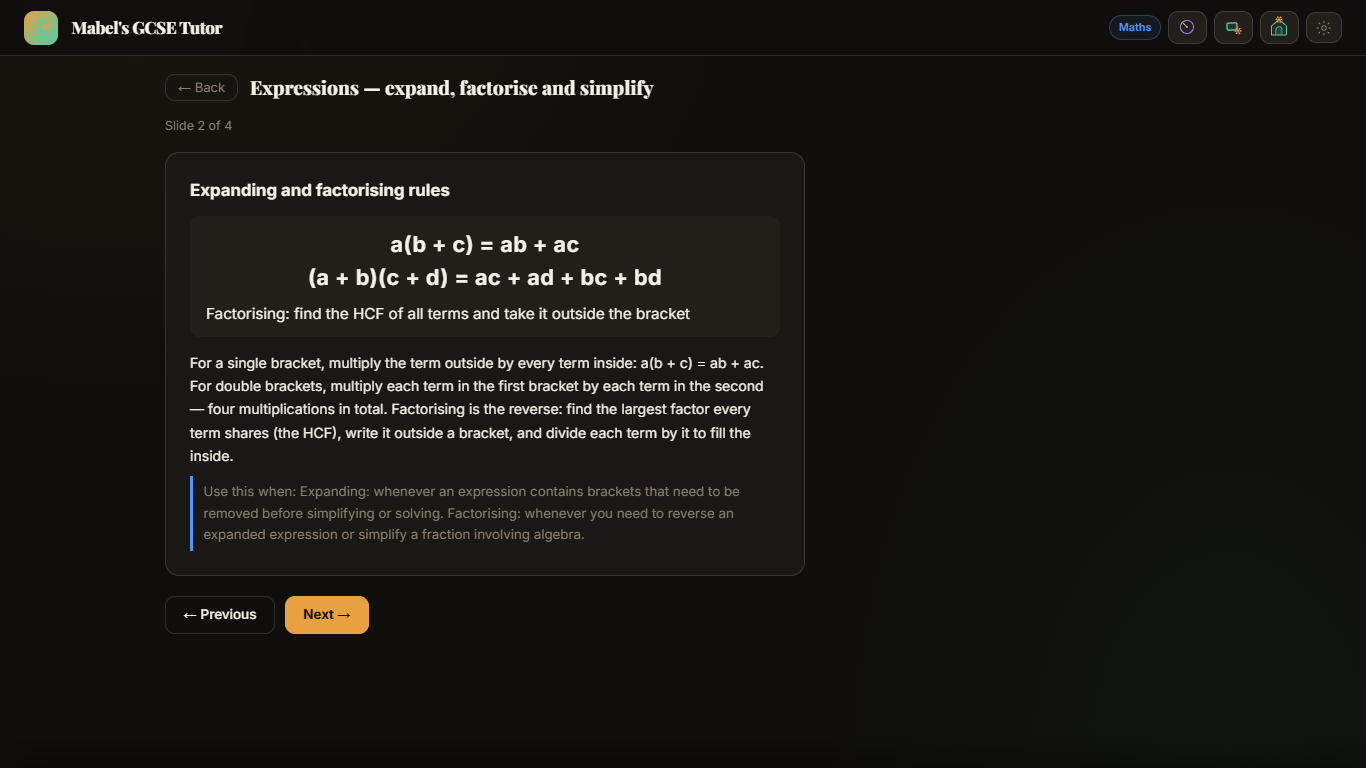
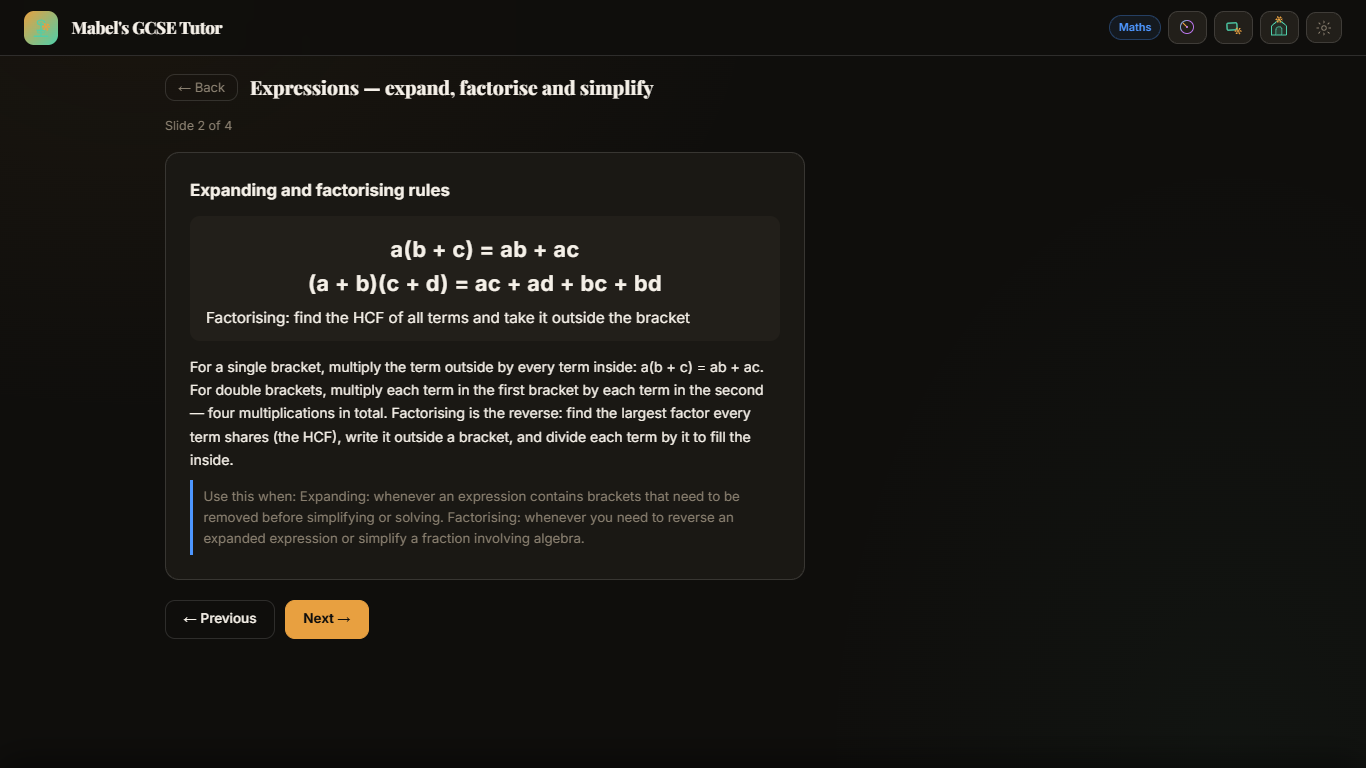
Maths formula boxes: worded rules wrap (Jason chose): a formula part with 2+ words of 3+ letters (not sin/cos/tan) wraps only at a space next to a word, so symbol runs stay whole; symbolic formulas stay nowrap; more space between rules. 51 of 69 formula lines worded; boxes that scroll 0/28 at 1366px

diff --git a/js/maths.js b/js/maths.js
@@ -235,9 +235,12 @@ const Maths = (() => {
   }
 
   // Formula box. Several rules joined with " | " go one per line: formulas
-  // first (big, never broken mid-formula; the box scrolls sideways instead),
-  // then any sentence parts at body size. Formula lines shrink on narrow
-  // screens (min with 4.5vw; 1.35rem on laptops). One rule renders as before.
+  // first (big), then any sentence parts at body size. Formula lines shrink
+  // on narrow screens (min with 4.5vw; 1.35rem on laptops). A symbolic
+  // formula never wraps (the box scrolls sideways instead). A worded rule
+  // (2+ words of 3+ letters, not sin/cos/tan) wraps, but only at a space next
+  // to a word, so symbol runs like "(n − 2) × 180°" stay whole.
+  // One rule renders as before.
   function _formulaBoxHtml(formula) {
     const boxStyle = `background:var(--s2);padding:0.75rem 1rem;border-radius:10px;margin-bottom:0.85rem`;
     if (!formula.includes(' | ')) {
@@ -249,9 +252,18 @@ const Maths = (() => {
     const isSentence = p => p.includes(': ') || (p.length > 40 && !p.includes('='));
     const formulas  = parts.filter(p => !isSentence(p));
     const sentences = parts.filter(isSentence);
+    const isWord = t => /^\(?[A-Za-z][A-Za-z'’-]{2,}\)?[,.]?$/.test(t) && !/^(sin|cos|tan)$/i.test(t);
+    const formulaLine = p => {
+      const toks = p.split(/\s+/);
+      if (toks.filter(isWord).length < 2) return { wrap: false, html: p };
+      // Space between two tokens may break only if one of them is a word.
+      const html = toks.map((t, i) => i === 0 ? t
+        : ((isWord(toks[i - 1]) || isWord(t)) ? ' ' : '&nbsp;') + t).join('');
+      return { wrap: true, html };
+    };
     return `<div class="maths-formula-box" style="${boxStyle};overflow-x:auto">
-      ${formulas.map(p => `<div style="text-align:center;font-size:min(1.35rem, 4.5vw);font-weight:700;
-        letter-spacing:0.02em;white-space:nowrap;line-height:1.5">${p}</div>`).join('')}
+      ${formulas.map(formulaLine).map(f => `<div style="text-align:center;font-size:min(1.35rem, 4.5vw);font-weight:700;
+        letter-spacing:0.02em;white-space:${f.wrap ? 'normal' : 'nowrap'};line-height:1.3;margin:0.4rem 0">${f.html}</div>`).join('')}
       ${sentences.map((p, i) => `<div style="text-align:left;font-size:0.95rem;font-weight:400;
         line-height:1.55;margin-top:${i === 0 && formulas.length ? '0.55rem' : '0.3rem'}">${p}</div>`).join('')}
     </div>`;

diff --git a/index.html b/index.html
@@ -104,7 +104,7 @@
 <script src="js/lessons.js?v=17"></script>
 <script src="js/maths-warmup.js?v=2"></script>
 <script src="js/maths-questions.js?v=4"></script>
-<script src="js/maths.js?v=6"></script>
+<script src="js/maths.js?v=7"></script>
 <script src="js/app.js?v=9"></script>
 </body>
 </html>

diff --git a/docs/STATE.md b/docs/STATE.md
@@ -139,7 +139,7 @@ Checked against the repo 2026-10-16 at 8c8ab0f.
 | AI lesson default (2.5a) | ✓ 8faa9b0: `TEACH_FIRST` in js/lessons.js (true): a TEACH_ENABLED lesson opens as the AI lesson when a key is saved; "Show me the slides instead" in its header opens the slides in one tap. This was already the routing before 2.5a; the flag makes it switchable. `false` opens the slides first with "Learn this with the AI tutor →" in their header. tools/check-teach-default.js (headless Chrome, API stubbed): both flag values × key / no key, slides ↔ AI lesson both ways, no page errors — 24/24 on p1-power and p2-static after 2.5b. | 2.5a |
 | Teach-mode shared fix 2.5c | ✓ 2a1f85b: `create({ fix25 })` in js/teach-core.js, on by default; `fix25: false` keeps the old path. On teaching turns, a reply is asked for again (like the yes/no check) if its question offers an either/or choice, it has no question, or it has more than one question; "Good question, but…" and openers such as "Brilliant —", "Excellent!", "Perfect." are stripped unless they say what was right. Found by the P1 and P2 runs (4 either/or, 1 no question, 1 two questions, 2 stock praise). Seen, not a shared-code fault: in the first p2-static run the tutor said a charged polythene rod loses its charge "straight away" when touched to a door handle, then that the rod stays charged — a model content error; not repeated in the re-run. | 2.5c |
 | Defect 11 new lessons | ✓ written 2026-10-17 (task 2.4) from data/spec/physics.md, one commit per lesson: p5-elasticity (4.5.3), p5-moments (4.5.4), p5-fluid-pressure (4.5.5), p6-black-body (4.6.3), new topic P8 Space physics with p8-solar-system (4.8.1.1, 4.8.1.3), p8-life-cycle-of-a-star (4.8.1.1, 4.8.1.2; stage names from the specification's life-cycle diagram, an image not in the .md), p8-red-shift (4.8.2). Additions: p5-forces-motion keyPoints[5] contact and non-contact forces (4.5.1.2); p6-sound keyPoints[4] seismic waves (4.6.1.5). Scanner clean on every new lesson and key point (the existing checkpoint-key ERRORs in p5-forces-motion and p6-sound predate 2.4). Not yet spec-checked or audited: that happens in each topic's loop. 4.3.3.3 closed 2026-10-18 in the P3 loop: p3-pressure keyPoints[3] "Doing work on a gas". | 2.4 |
-| Maths track | ✓ task 2.2 (2026-10-16): all 600 questions recomputed by tools/maths-recompute.js --all (functions in tools/maths-recompute-fns.js, written from the question text and step prompts with stored answers and hints hidden). Before (bank at fd0f6f1, report tools/maths-recompute-all-report-fd0f6f1.md): 1385 checked steps, 15 wrong, 12 mismatch (prompt asks for something else) = 27/1385 = 1.9%, in 22 of 600 questions; a further 131 steps ambiguous (the prompt did not say which of several right numbers to enter). After (tools/maths-recompute-all-report.md): 1375 checked steps (10 comment steps that checked an unrelated number are now checkType skip), 0 wrong, 0 mismatch, 0 ambiguous. Six questions rewritten because their figures or reasoning were wrong (pyth-C03, cth-C02, cth-C04, trig-C02, trig-C04, vec-C04 — vec-C04 asked for a proof of something false); grd-C02's figures made consistent. marks = steps.length for all 600 (87 changed, matching defect 8's count). auditStatus 'verified' for 567; the other 33 have no step the app checks (all statements), so nothing could be recomputed. Every change with old and new values: tools/maths-fix-log.md. Not checked: the text of checkType skip steps (vec-C04 was found by reading, not by the tool); fractions typed as a/b are accepted only when they equal a step's displayAnswer exactly (js/maths.js _matchAnswer), so x = 10/3 typed as "10/3" is still marked wrong. The functions and the fixes were written in the same session, so the after-run checks the bank against my own reading of each prompt; the before-run on fd0f6f1 is the same functions on the untouched bank. Formula boxes (2026-11-26, brief "maths formula boxes"): js/maths.js `_formulaBoxHtml` splits `slide.formula` on " | " (28 slide-2 formulas in 28 of 41 lesson files, 2–8 parts) into one line per part: formula parts centred, bold, nowrap, min(1.35rem, 4.5vw); sentence parts (contain ": " or over 40 chars with no "=") at 0.95rem, left, under the formulas; box overflow-x auto. No " | " → same markup as before. No lesson JSON edited; no other renderer of a maths formula field in js/ (count 1). maths.js v6. Screens: tools/site-test-runs/2026-11-26/maths-formula/. Open: lines too wide for the box scroll sideways with no cue — 9 on laptop (worded rules, e.g. stat-averages Median, prob-basic P(event)), 43 at 390px; stat-boxplots uses " | " inside its five-number list, so "Five-number summary: Minimum" drops below Q1/Median/Q3/Maximum. Both need a decision (wrap rule or JSON edit). | 2.2 |
+| Maths track | ✓ task 2.2 (2026-10-16): all 600 questions recomputed by tools/maths-recompute.js --all (functions in tools/maths-recompute-fns.js, written from the question text and step prompts with stored answers and hints hidden). Before (bank at fd0f6f1, report tools/maths-recompute-all-report-fd0f6f1.md): 1385 checked steps, 15 wrong, 12 mismatch (prompt asks for something else) = 27/1385 = 1.9%, in 22 of 600 questions; a further 131 steps ambiguous (the prompt did not say which of several right numbers to enter). After (tools/maths-recompute-all-report.md): 1375 checked steps (10 comment steps that checked an unrelated number are now checkType skip), 0 wrong, 0 mismatch, 0 ambiguous. Six questions rewritten because their figures or reasoning were wrong (pyth-C03, cth-C02, cth-C04, trig-C02, trig-C04, vec-C04 — vec-C04 asked for a proof of something false); grd-C02's figures made consistent. marks = steps.length for all 600 (87 changed, matching defect 8's count). auditStatus 'verified' for 567; the other 33 have no step the app checks (all statements), so nothing could be recomputed. Every change with old and new values: tools/maths-fix-log.md. Not checked: the text of checkType skip steps (vec-C04 was found by reading, not by the tool); fractions typed as a/b are accepted only when they equal a step's displayAnswer exactly (js/maths.js _matchAnswer), so x = 10/3 typed as "10/3" is still marked wrong. The functions and the fixes were written in the same session, so the after-run checks the bank against my own reading of each prompt; the before-run on fd0f6f1 is the same functions on the untouched bank. Formula boxes (2026-11-26, brief "maths formula boxes"): js/maths.js `_formulaBoxHtml` splits `slide.formula` on " | " (28 slide-2 formulas in 28 of 41 lesson files, 2–8 parts) into one line per part: formula parts centred, bold, nowrap, min(1.35rem, 4.5vw); sentence parts (contain ": " or over 40 chars with no "=") at 0.95rem, left, under the formulas; box overflow-x auto. No " | " → same markup as before. No lesson JSON edited; no other renderer of a maths formula field in js/ (count 1). maths.js v6. Screens: tools/site-test-runs/2026-11-26/maths-formula/. Worded rules wrap (Jason chose, same day; maths.js v7): a formula part with 2+ words of 3+ letters (not sin/cos/tan) wraps, only at a space next to a word, so symbol runs like "(n − 2) × 180°" stay whole; 51 of 69 formula lines are worded; boxes that scroll: 0 of 28 at 1366px and at 390px (were 9 lines / 43 lines clipped). Open: stat-boxplots uses " | " inside its five-number list, so "Five-number summary: Minimum" drops below Q1/Median/Q3/Maximum. Needs a JSON edit (not done). | 2.2 |
 
 ## First-time learner brief (2026-10-18)
 
